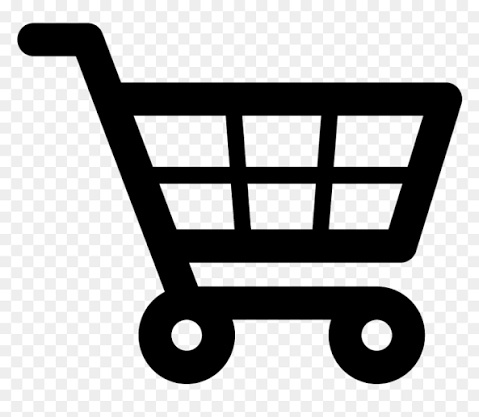
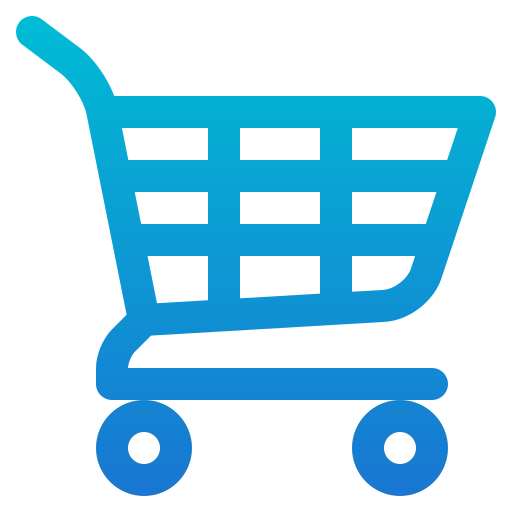
Iconos/Boton
Agregado boton de carrito y cambio de iconos

diff --git a/src/componentes/organismos/Navbar.tsx b/src/componentes/organismos/Navbar.tsx
@@ -43,6 +43,15 @@ function Navbar() {
                     
                 <BuscadorNavbar />
 
+                    <Link className="nav-link" to="/">
+                        <img
+                            src="/imgIcons/cart.png"
+                            alt="Carrito"
+                            width="30"
+                            height="30"
+                        />
+                    </Link>
+
                     <div className="d-flex align-items-center ms-auto gap-3">
 
                         <Link className="nav-link text-primary" to="/login">
